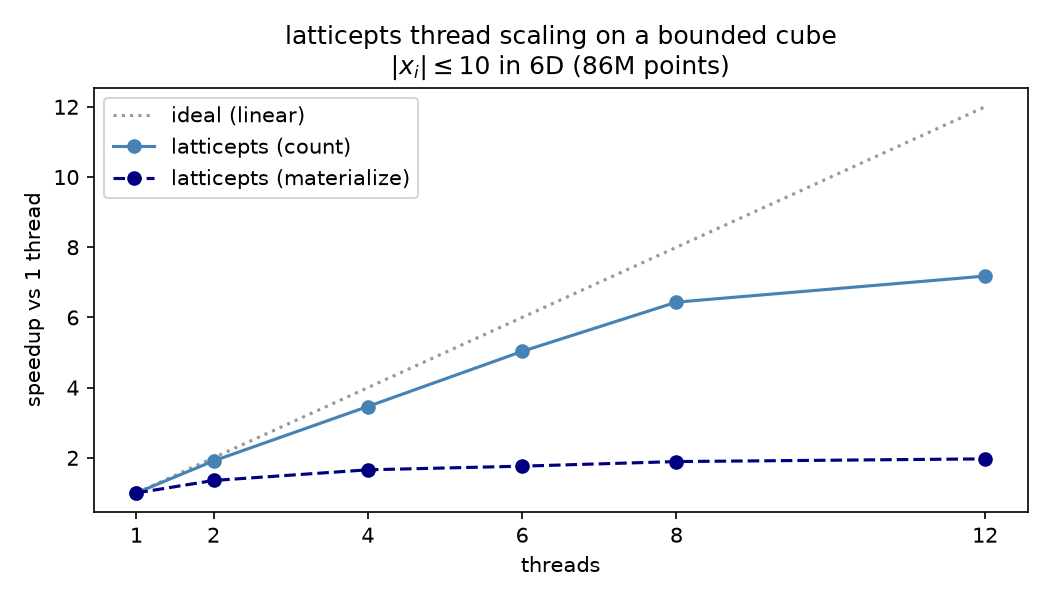
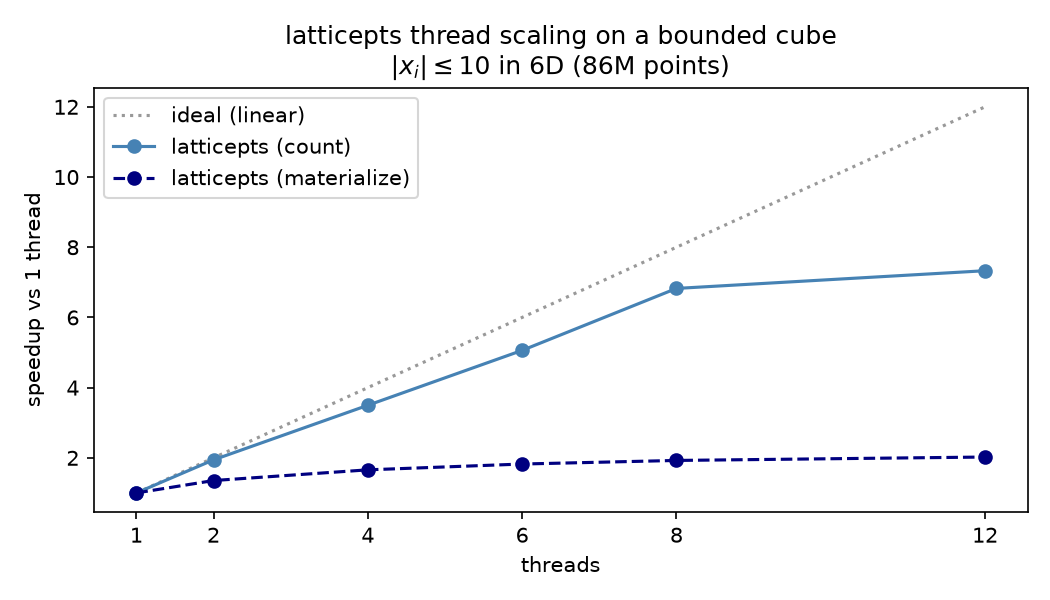
fix old system mentions

diff --git a/README.md b/README.md
@@ -64,7 +64,7 @@ The two build flags are independent and compose; for the fastest build, set both
 LATTICEPTS_NATIVE=1 LATTICEPTS_OPENMP=1 pip install -e .
 ```
 
-Counting parallelizes well -- ~6x on 12 threads when there are many top-level branches (latticepts splits the search across the top coordinate's values, so that count caps the speedup); materializing gains less (~2x: its two-pass count-then-fill is more memory-bound), and the thread-startup overhead can make the serial path (`parallel=False`) faster for small outputs. No extra memory either way: counting holds only each thread's small `O(N_hyps * dim)` search state, and materializing fills disjoint slices of the single output buffer (no per-thread copies). See [the benchmarks](#benchmarks) for thread-scaling plots.
+Counting parallelizes well -- ~7x on 12 threads when there are many top-level branches (latticepts splits the search across the top coordinate's values, so that count caps the speedup); materializing gains less (~2x: its two-pass count-then-fill is more memory-bound), and the thread-startup overhead can make the serial path (`parallel=False`) faster for small outputs. No extra memory either way: counting holds only each thread's small `O(N_hyps * dim)` search state, and materializing fills disjoint slices of the single output buffer (no per-thread copies). See [the benchmarks](#benchmarks) for thread-scaling plots.
 
 ## Algorithm Notes
 
@@ -78,7 +78,7 @@ A helper method to `box_enum` is provided in case the user wants $N$ points but 
 
 ## Benchmarks
 
-The three comparison benchmarks below are **single-threaded** -- each tool is given one thread, so none is helped or hurt by its own parallelism -- measured on a 6-core / 12-thread Intel Core i5-10600K (4.1 GHz, 16 GB RAM, Ubuntu 24.04) with the default `pip install` build (GCC `-O3`). Each plotted point is the median of several warmed-up runs; error bars are usually smaller than the marker. To recreate: `conda env create -f environment-bench.yml`, then run the [`benchmarks/`](https://github.com/natemacfadden/latticepts/tree/main/benchmarks) scripts. latticepts's own multicore scaling is shown separately below.
+The three comparison benchmarks below are **single-threaded** -- each tool is given one thread, so none is helped or hurt by its own parallelism -- measured on a 24-core Intel Core Ultra 7 270K (30 GB RAM, Ubuntu 26.04) with the default `pip install` build (GCC `-O3`). Each plotted point is the median of several warmed-up runs; error bars are usually smaller than the marker. To recreate: `conda env create -f environment-bench.yml`, then run the [`benchmarks/`](https://github.com/natemacfadden/latticepts/tree/main/benchmarks) scripts. latticepts's own multicore scaling is shown separately below.
 
 **Convex cones:** runtime vs requested number of interior lattice points in a cone (i.e., not on the boundary). The cone studied is the 7D 'Manwe' from https://arxiv.org/abs/2406.13751:
 
@@ -98,10 +98,10 @@ The three comparison benchmarks below are **single-threaded** -- each tool is gi
   <img src="docs/benchmark_dim.png" alt="Runtime vs dimension for the length-2 hypercube"/>
 </p>
 
-**Thread scaling:** latticepts also parallelizes (build with `LATTICEPTS_OPENMP=1`; the comparison plots above use the single-threaded serial path). It splits the search across the top coordinate's values, so the number of top-level branches caps the speedup. On a bounded cube $|x_i|\leq 10$ in 6D (~86M points, 21 top-level branches), the parallelization achieves ~6x speedup for counting the points and ~2x speedup for materializing them, both on 12 threads. Parallelization was often counterproductive (slower) for Normaliz and CP-SAT.
+**Thread scaling:** latticepts also parallelizes (build with `LATTICEPTS_OPENMP=1`; the comparison plots above use the single-threaded serial path). It splits the search across the top coordinate's values, so the number of top-level branches caps the speedup. On a bounded cube $|x_i|\leq 10$ in 6D (~86M points, 21 top-level branches), the parallelization achieves ~7x speedup for counting the points and ~2x speedup for materializing them, both on 12 threads. Parallelization was often counterproductive (slower) for Normaliz and CP-SAT.
 
 <p align="center">
-  <img src="docs/benchmark_threads.png" alt="latticepts thread scaling on a bounded cube: counting ~6x on 12 threads, materializing ~2x"/>
+  <img src="docs/benchmark_threads.png" alt="latticepts thread scaling on a bounded cube: counting ~7x on 12 threads, materializing ~2x"/>
 </p>
 
 ## Usage